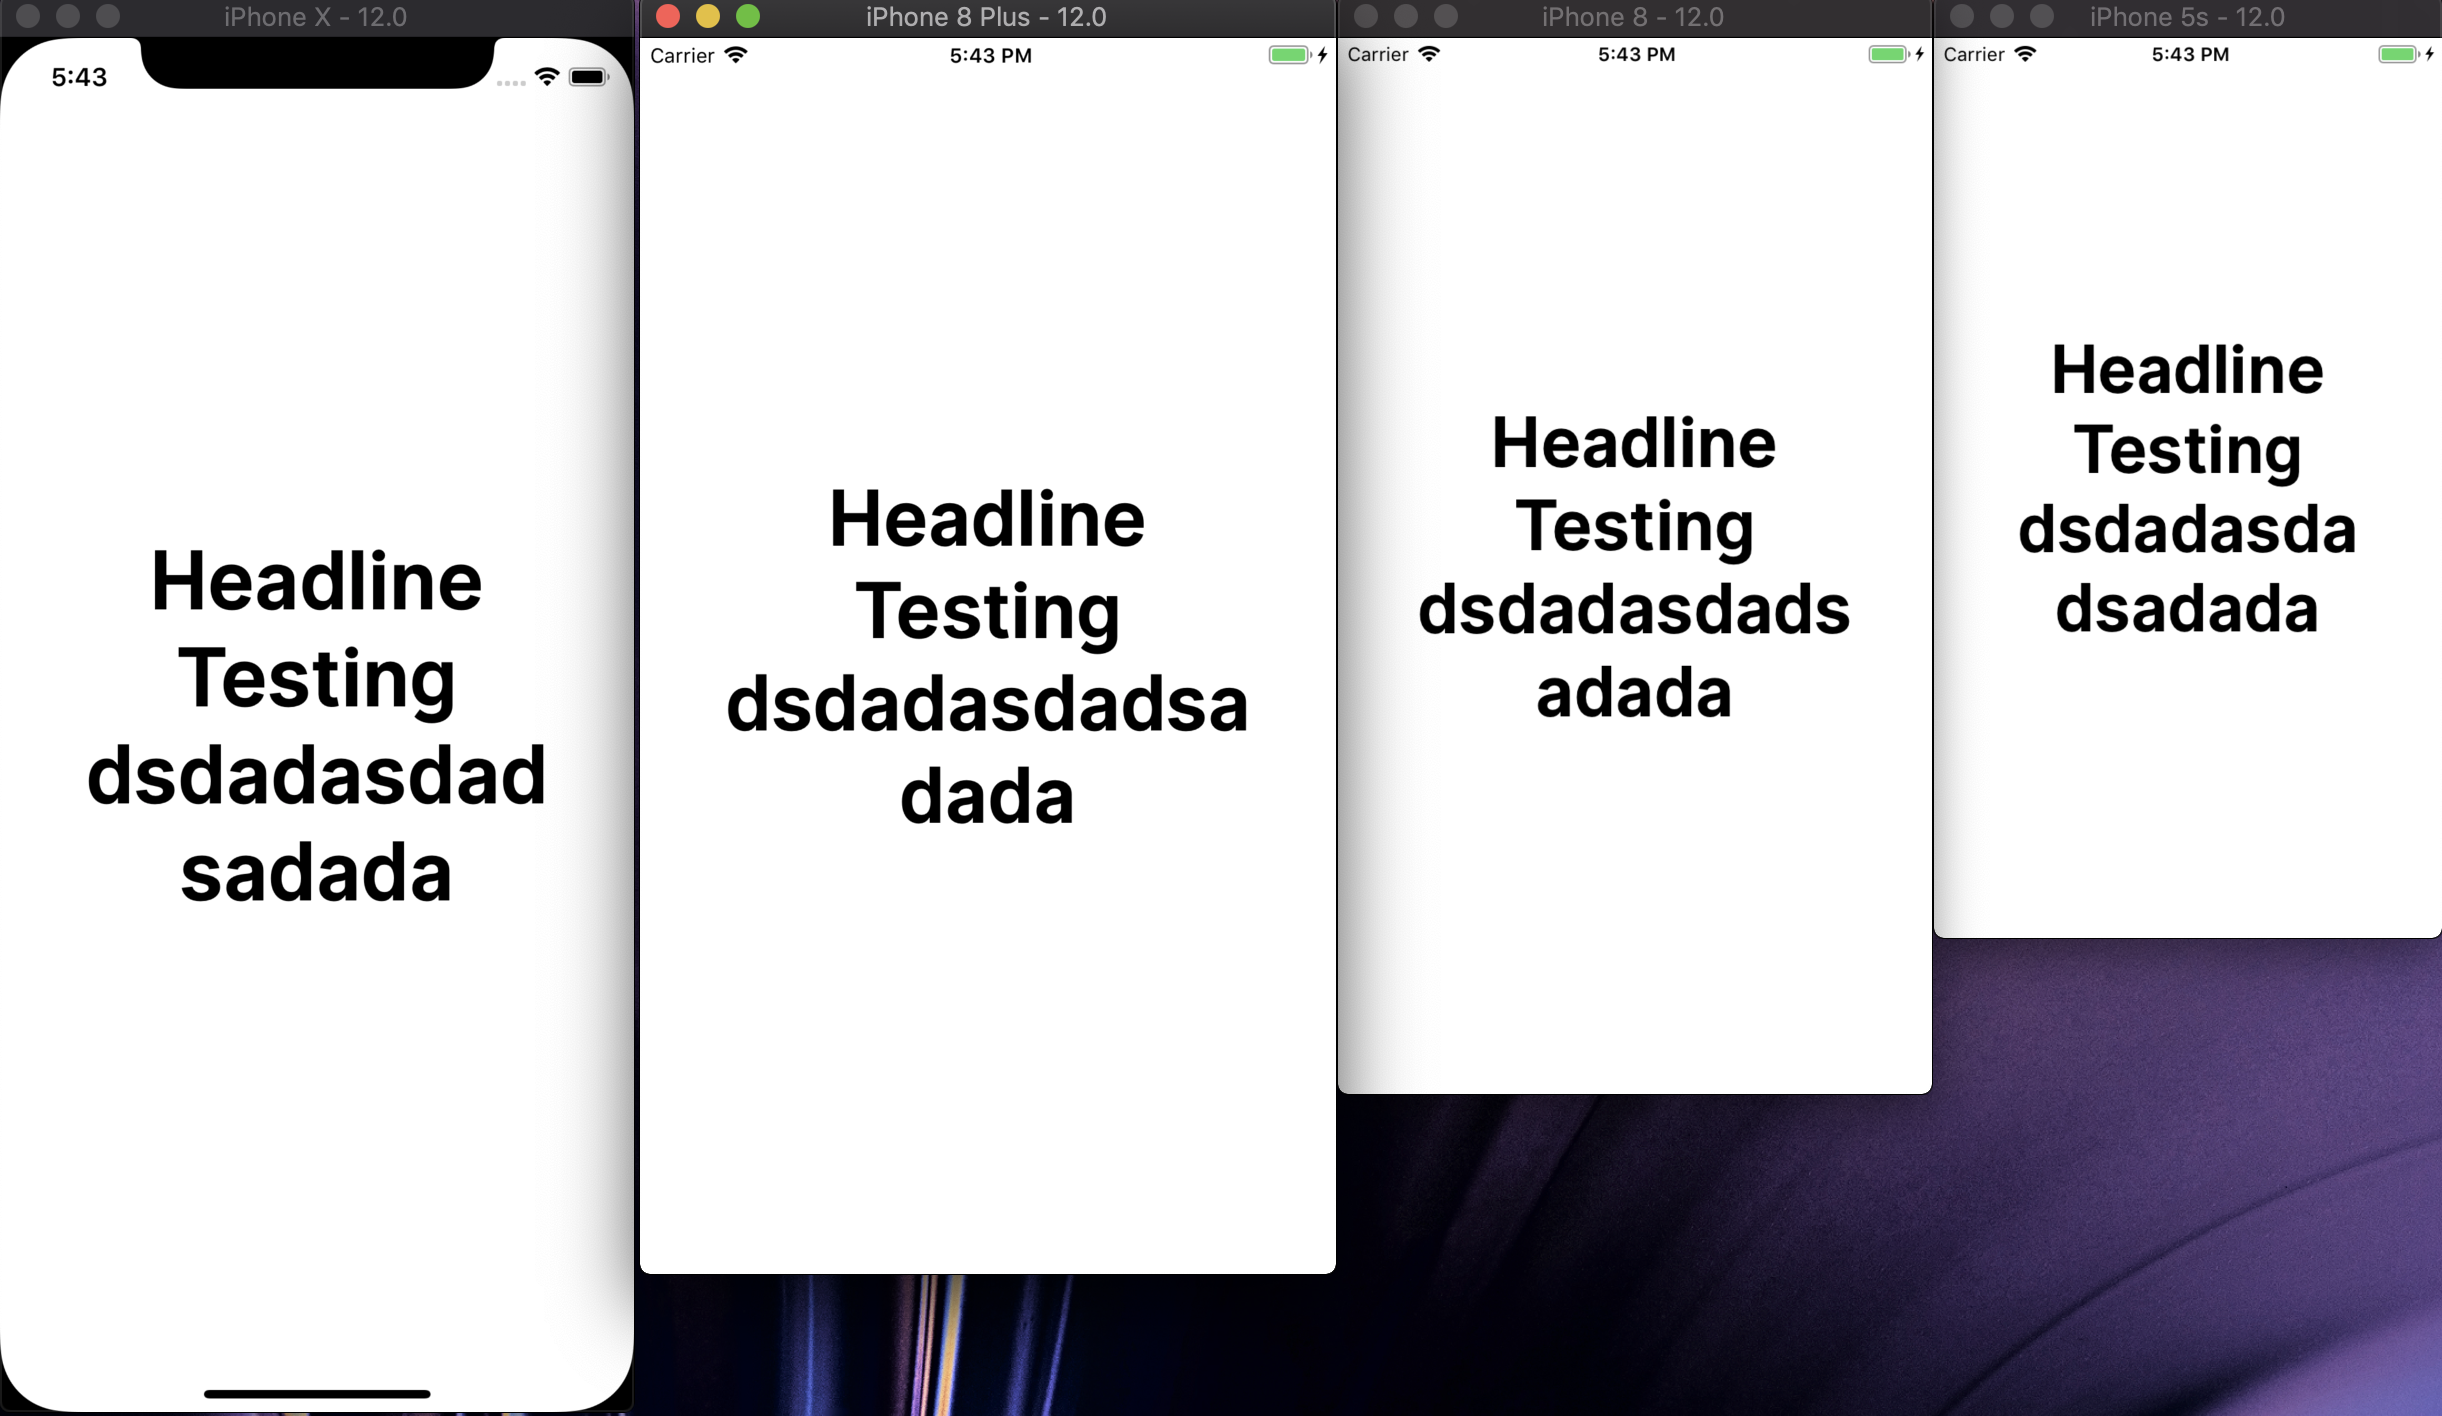
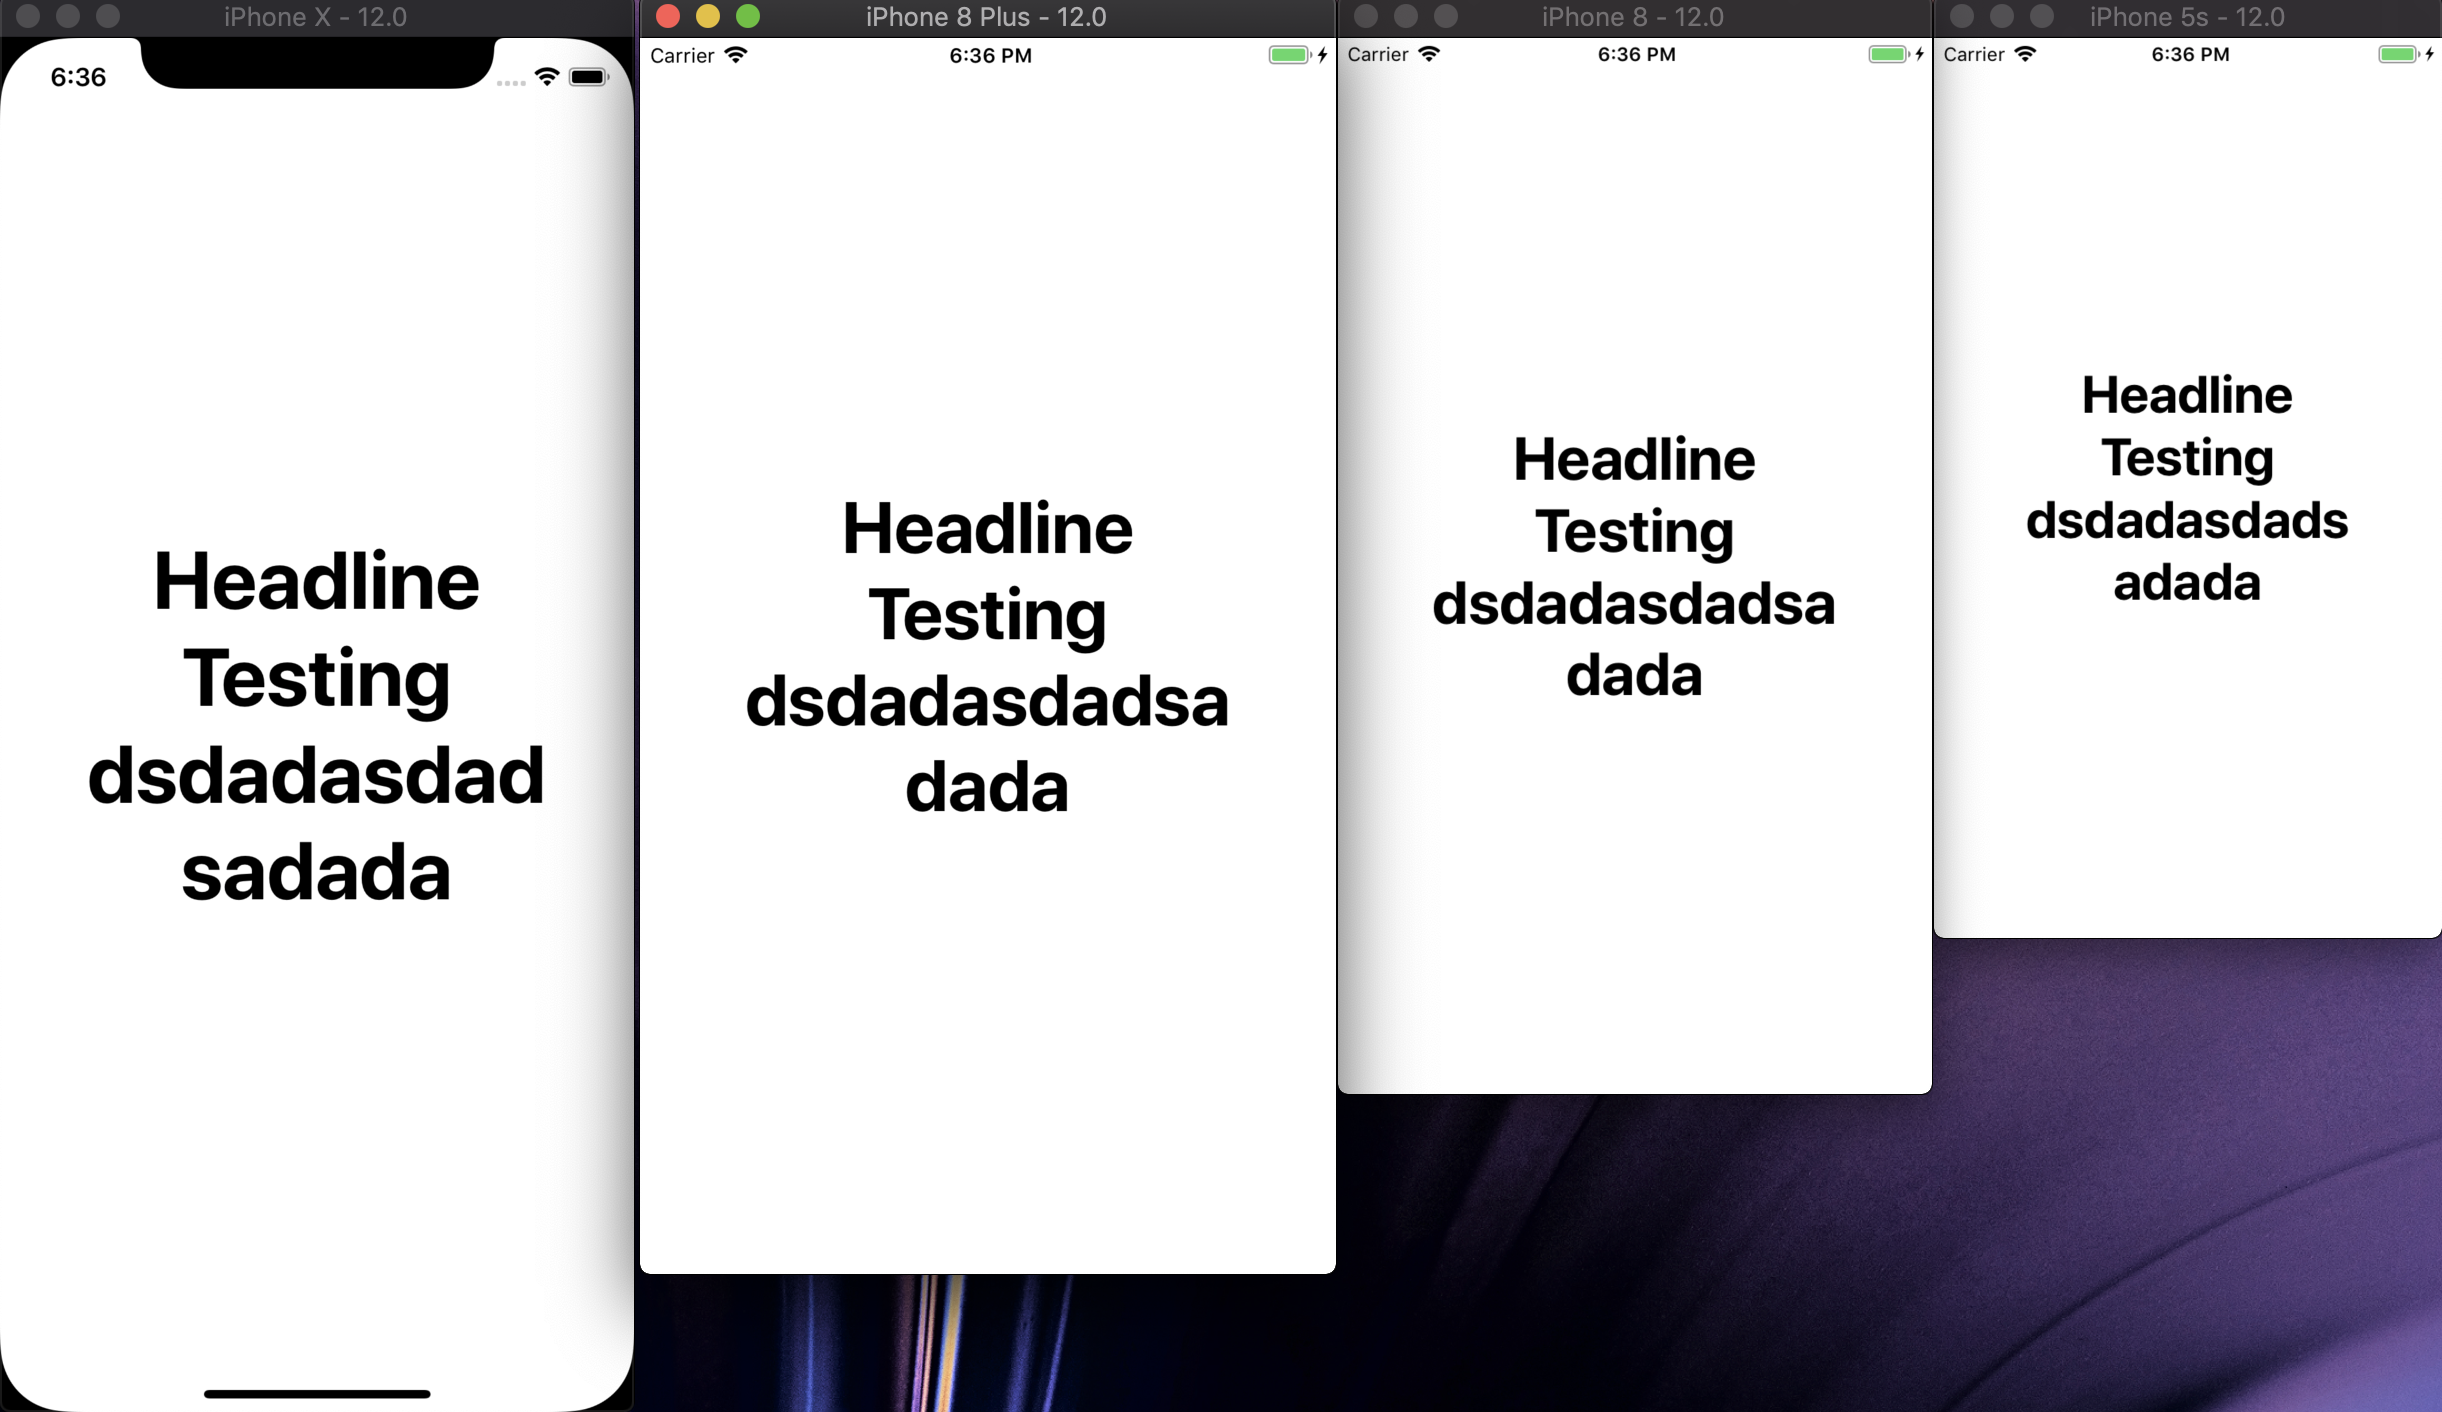
# update : font size config

diff --git a/TASizeLabel.swift b/TASizeLabel.swift
@@ -156,11 +156,11 @@ class TASizeLabel: UILabel {
     private func correctFontSizeForDevice (deviceSize : DeviceSize, pointSpecified: CGFloat) -> CGFloat{
         switch deviceSize {
         case .Small:
-            return checkReductionSize(reduceToSize, pointSpecified, 10) // <= 6 is default set up, you can change as well
+            return checkReductionSize(reduceToSize, pointSpecified, 15) // <= 15 is default set up, you can change as well
         case .Retina:
-            return checkReductionSize(reduceToSize, pointSpecified, 8) // <= 4 is default set up, you can change as well
+            return checkReductionSize(reduceToSize, pointSpecified, 10) // <= 10 is default set up, you can change as well
         case .HDRetina:
-            return checkReductionSize(reduceToSize, pointSpecified, 5) // <= 2 is default set up, you can change as well
+            return checkReductionSize(reduceToSize, pointSpecified, 5) // <= 5 is default set up, you can change as well
         case .SuperRetina, .Other:
             return pointSpecified
         }
